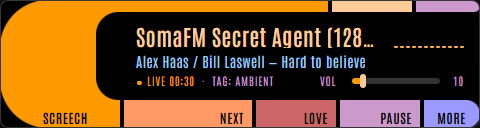
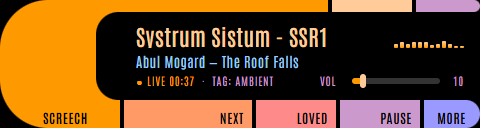
Document the 0.9.0 fixes; README screenshots from a real listening session.
CHANGELOG gains Upgrading and Fixes notes for the meter, the filename
tracks and mpv's death message. SPEC records mpv's filename rule and why the
meter's filter is labelled; AGENTS lists the window's package, its build
tags, the Windows staticcheck and why TestMPVLifecycle is the only guard on
observed property names. The screenshots replace seeded sample rows with
real loves and a live meter.

Generated with [Devin](https://devin.ai)

diff --git a/AGENTS.md b/AGENTS.md
@@ -1,11 +1,15 @@
 # Working on screech
 
-Go terminal radio: `cmd/screech` (entry, doctor, export, console hold),
+Go radio with two faces: `cmd/screech` (terminal entry, doctor, export,
+console hold), `cmd/screech-gui` (the Windows LCARS window: Wails shell,
+placement, handoff, message boxes; every file `//go:build windows`),
 `internal/app` (shared startup: config, per-OS single-instance lock, log,
 database, mpv), `internal/core` (SQLite store, bandit, fingerprints,
 radio-browser client), `internal/player` (mpv over JSON IPC),
+`internal/streamurl` (mpv's filename rule, shared by player and core),
 `internal/session` (the listening state machine every face drives),
 `internal/tui` (Bubble Tea faceplate over a `session.State`),
+`internal/gui` (the window's bridge and embedded front end),
 `internal/config`, `internal/version`.
 [SPEC.md](SPEC.md) is the design record; keep it in step with behavior.
 
@@ -17,9 +21,10 @@ go mod tidy -diff              # must print nothing
 go vet ./...
 staticcheck ./...              # honnef.co/go/tools/cmd/staticcheck@v0.8.1
 GOOS=linux staticcheck ./...   # unix-only files (IPC socket, flock, SIGHUP)
+GOOS=windows staticcheck ./... # cmd/screech-gui, from a non-Windows host
 go test -race -count=1 ./...
 govulncheck ./...              # golang.org/x/vuln/cmd/govulncheck@v1.8.0
-for t in linux/amd64 darwin/arm64 linux/arm64 windows/arm64 freebsd/amd64; do
+for t in windows/amd64 linux/amd64 darwin/arm64 linux/arm64 windows/arm64 freebsd/amd64; do
   GOOS=${t%/*} GOARCH=${t#*/} CGO_ENABLED=0 go build ./...
 done
 ```
@@ -32,7 +37,9 @@ done
   scripted mpv (`fakempv_test.go`), so CI covers spawn, IPC, crash, restart
   and close without mpv installed. `TestMPVLifecycle` drives a real mpv
   (`--ao=null`) and skips when mpv isn't on PATH or under `-short`; run it
-  locally when touching `internal/player`.
+  locally when touching `internal/player`. It is the only check that the
+  observed property names are real: mpv never fires an observed property
+  whose path is wrong, so a typo there is silence, not an error.
 - `TestViewFitsEveryTerminalSize` renders every overlay at every small
   terminal size; any view change must keep it green (no panic, no overflow).
 - `receiverShape` is the single faceplate-vs-stacked decision; `View`, the
@@ -60,6 +67,12 @@ done
   and unfolded modes; `TestKeyboardMap` replays scripted keys and wheel
   events on the real page and checks the bridge calls. Run it after any
   change to `internal/gui/frontend/`; screenshots land in `.review/gui/`.
+- The real window needs Wails' build tags: `CGO_ENABLED=0 go build -tags
+  desktop,production -trimpath -ldflags "-H windowsgui -s -w" -o
+  dist/screech-gui.exe ./cmd/screech-gui`. Without them Windows links the
+  stub, which only shows an error box. Under `-H windowsgui` stdout goes
+  nowhere, so Wails' own messages (WebView2 failures included) are routed
+  into the shared log as `webview <level>:` lines.
 - `go test -tags live ./internal/core -run Live` hits the real radio-browser
   directory; plain unit tests must never touch the network (`openTestCore`
   points the client at a dead transport).

diff --git a/SPEC.md b/SPEC.md
@@ -231,10 +231,14 @@ leave `LIVE` on screen over silence. The rules, verified against mpv 0.41:
   end-file maps to stopped), and `Play` always sends `pause=false` after
   `loadfile` because mpv's pause survives the load — a chosen station must
   never start silent.
-- Until an ICY title arrives, `media-title` is just the URL's basename
-  (`aac-128`, `kexp128.mp3`; KEXP sends an empty `icy-title`, so its stays
-  that forever). That fallback is suppressed; it used to show as the track
-  and log a junk heard-track on every tune (migration 4 purged them).
+- Until an ICY title arrives, `media-title` falls back to mpv's `filename`:
+  the whole URL percent-decoded, then everything after its last `/`, query
+  included (`aac-128`, `kexp128.mp3`, `rq?rj-ttl=5&rj-tok=…`; KEXP sends an
+  empty `icy-title`, so its stays that forever). The player drops a
+  media-title equal to any form `streamurl.MpvFilenames` derives from the
+  URL it loaded, or to the `filename` mpv last reported, which covers
+  playlist entries Screech never saw. It used to show as the track and log
+  a junk heard-track on every tune (migrations 4 and 5 purged them).
 - A failure *before* lock (error, eof, or 12s of nothing) is the station's:
   one strike, move on. A failure *after* lock (eof, error, or a 20s buffer
   stall) is a drop: re-`loadfile` the same station without touching the open
@@ -603,9 +607,12 @@ peak and peak-hold ticks that cool through the ramp as they fall. Bars are
 bass-weighted, so per-channel levels still read as a spectrum, not a uniform
 bounce; the tilt is a lean (1.0 → 0.74), not a cliff, or the right of the
 bay goes structurally dead. Amplitude is real (mpv astats per-channel RMS +
-peak over IPC ~20Hz, mono mixdown fallback); texture is synthetic. If level
-data stops (other backends), it falls back to self-animated breathing after
-3s. Real FFT arrives with Path 2's pure-Go audio; the renderer already takes
+peak over IPC ~20Hz, mono mixdown fallback); texture is synthetic. The
+filter is labelled (`--af=@meter:lavfi=[astats…]`) and read as
+`af-metadata/meter/lavfi.astats.*`: an unlabelled path is an error on mpv
+0.41, and an observed property that errors simply never fires, which left
+the wave on its fallback unnoticed until 0.9. If level data stops (other
+backends), it falls back to self-animated breathing after 3s. Real FFT arrives with Path 2's pure-Go audio; the renderer already takes
 a `[]float64` either way.
 
 **Resolution is per-row, and one row is not enough.** A braille cell's eight

diff --git a/CHANGELOG.md b/CHANGELOG.md
@@ -43,6 +43,26 @@ release pages.
   setting calm the window too: no button flash, no fade-in, no pulsing.
   The level meter keeps moving, since it's information.
 
+### Upgrading
+
+- The first launch deletes the web-address "tracks" described under Fixes
+  from your listening history. Loved tracks are left alone.
+
+### Fixes
+
+- **The level meter follows the music.** Screech asked mpv for its loudness
+  readings under a name mpv 0.41 doesn't answer to, so the terminal's wave
+  had been breathing on its own fallback, not the audio. It now reads them
+  the way mpv documents, and both the wave and the window's meter move with
+  the real level.
+- **No more web addresses in RECENT.** On a station that sends no track
+  titles, mpv reports the stream's file name instead, and when the address
+  ends in a query (`…?token=…`) Screech took it for a track and logged it.
+  It now recognises those however the address is written.
+- When mpv dies, the reason Screech shows now reliably carries mpv's own
+  last words; it used to report the death before mpv's error output had
+  arrived.
+
 ### Interface
 
 - The RECENT list, in both the terminal and the window, no longer repeats a
